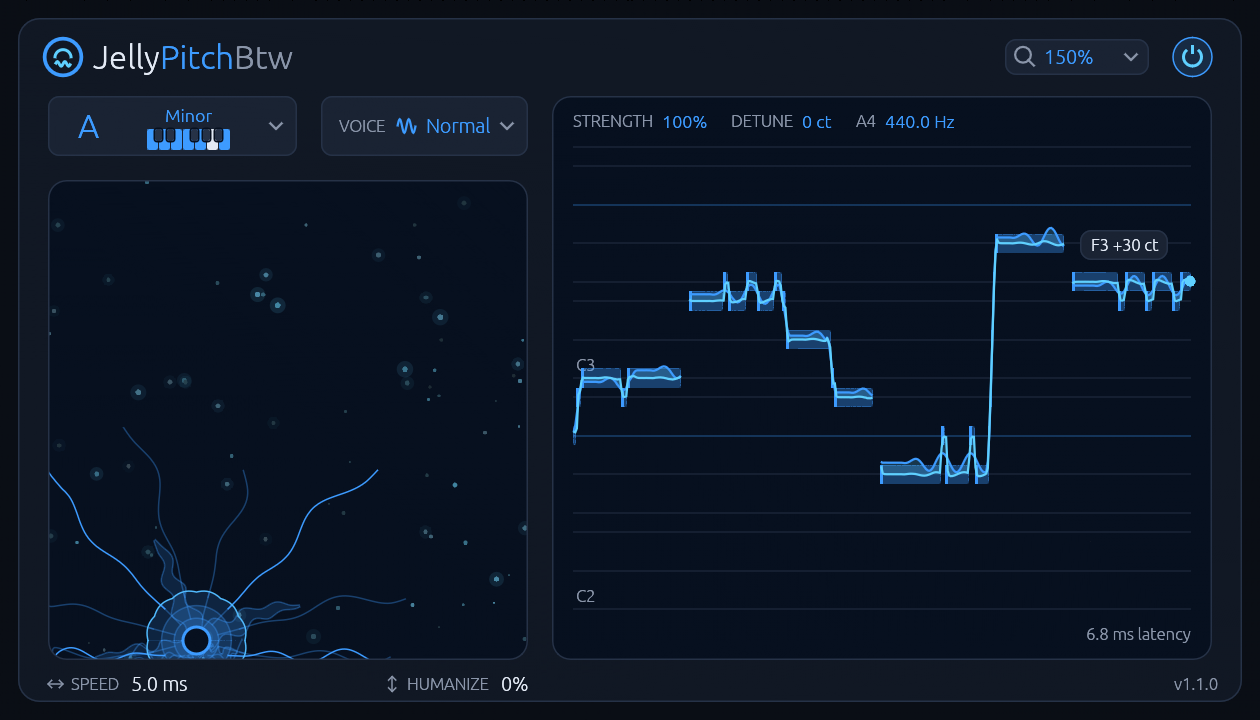
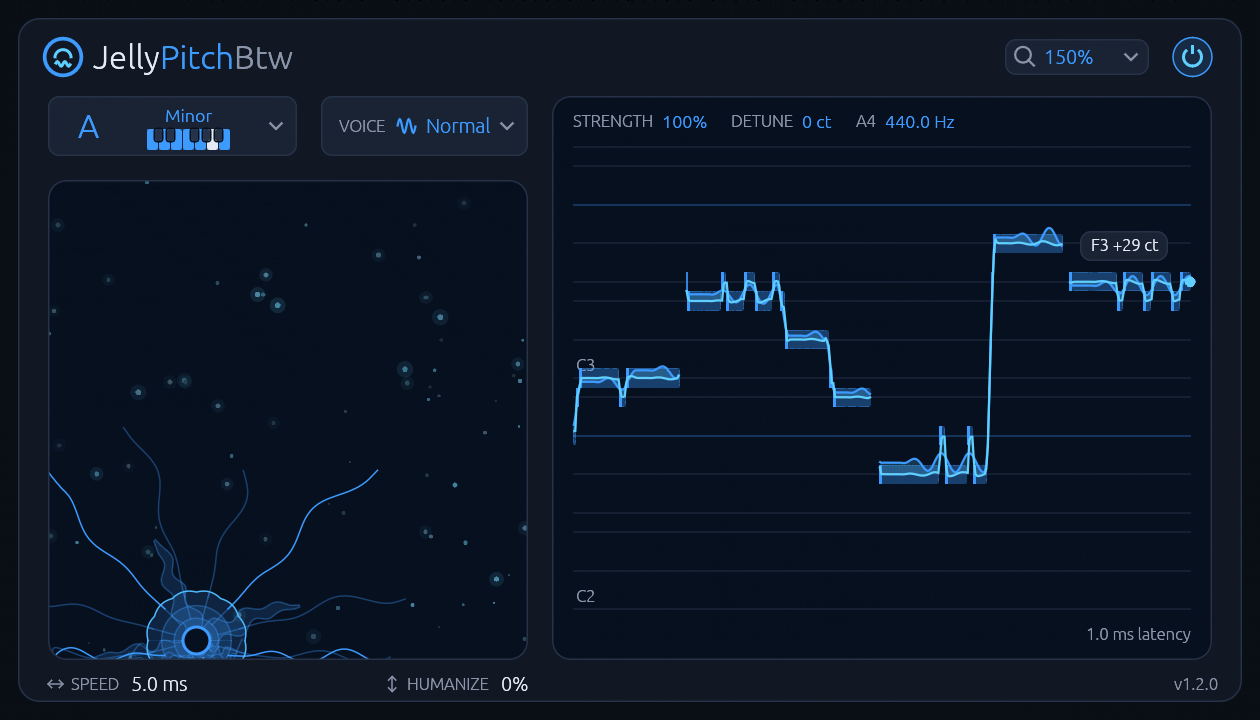
1.2.0: 1 ms of latency, lighter, AVX2, a new screenshot
README: the latency, the CPU, the AVX2 requirement and the install commands. Manual: VOICE no longer sets the latency, 1.1's settings are kept, an entry for a CPU without AVX2. The screenshot is the 1.2.0 editor.

diff --git a/manual.md b/manual.md
@@ -4,7 +4,7 @@
 pulled in and how far off its note a voice may be and be left alone, and a display shows the voice
 as sung and as corrected.
 
-Version 1.1.0. To install it, see the [README](README.md).
+Version 1.2.0. To install it, see the [README](README.md).
 
 ## Contents
 
@@ -35,7 +35,7 @@ From the top left of the window.
 | --- | --- | --- | --- |
 | **Power switch** (top right) | On / Off | On | Off, the voice passes through uncorrected, as late as the latency the plugin reports, so the track stays in time. |
 | **Key and scale** | C to B; 13 scales | C, Chromatic | The notes a voice is pulled to. Chromatic is every note: plain tuning. |
-| **VOICE** (beside the scale) | Low, Normal, High | Normal | Where the voice is looked for: Low 50 to 400 Hz, Normal 80 to 800 Hz, High 150 to 1500 Hz. It sets the latency too. |
+| **VOICE** (beside the scale) | Low, Normal, High | Normal | Where the voice is looked for: Low 50 to 400 Hz, Normal 80 to 800 Hz, High 150 to 1500 Hz. |
 | **The pad: SPEED** (left to right) | 0 to 200 ms | 25 ms | How fast a new note is pulled in. 0 ms snaps at once; 200 ms glides. |
 | **The pad: HUMANIZE** (bottom to top) | 0 to 100 % | 0 % | How far off its note a voice may be and be left alone, up to 50 cents at 100 %. 0 % corrects every note. |
 | **STRENGTH** (display) | 0 to 100 % | 100 % | How much of the correction is applied. 0 % leaves the pitch as sung. |
@@ -73,10 +73,8 @@ swings to the next note and back, the sound of a hard-tuned vocal. Settings to s
 
 VOICE, beside the key and scale, says where to look for the voice. Click it for its list: Low,
 Normal and High, each with its range in Hz. Normal fits most singers; take Low for a bass voice
-that the plugin misses, and High for a high soprano or a whistle. A higher range has less latency:
-10.75 ms at Low, 6.81 ms at Normal, 3.75 ms at High (at 48 kHz). The host is told and plays the
-track that much earlier, so it stays in time with the others. Because it changes the latency,
-VOICE isn't automatable: set it and leave it.
+that the plugin misses, and High for a high soprano or a whistle. The latency is the same in all
+three. VOICE isn't automatable: set it and leave it.
 
 ### The display
 
@@ -102,14 +100,14 @@ from 50 cents. Switched off, it rests.
 
 ## Good to know
 
-- **Latency:** 3.75 to 10.75 ms by VOICE, 6.81 ms at Normal. The host is told, and lines the
-  track up.
-- **Automation:** every parameter but VOICE can be automated; VOICE changes the latency, so it
-  isn't offered.
+- **Latency:** 1 ms in every VOICE. The host is told, and lines the track up. While a voice is
+  being tuned the sound runs a little further behind, 4.5 ms on average.
+- **Automation:** every parameter but VOICE can be automated.
+- **From 1.1:** every setting is kept. The latency was 3.75 to 10.75 ms by VOICE.
 - **From 1.0:** a project saved with 1.0 opens with its key, scale, SPEED, STRENGTH, DETUNE, A4
   and VOICE. REALTIME, VIBRATO, FORMANT and HOLD are gone, and HUMANIZE starts at 0 %.
 - **Saved with the project:** every setting and the zoom.
-- **CPU:** 0.26 % of a core at the defaults.
+- **CPU:** 0.13 % of a core at the defaults. It needs a CPU with AVX2 (Intel Core from 2013, AMD from 2015).
 - **One voice:** chords, a choir on one track or a mix go wrong. Correct each voice on its own
   track.
 - **Zoom:** the project remembers it, and a new window opens at the zoom you last chose in any
@@ -125,5 +123,7 @@ from 50 cents. Switched off, it rests.
   the nearest note whatever the key.
 - **The track sounds late against the others:** the host has to compensate the plugin's latency;
   check that its latency compensation is on.
+- **The plugin doesn't load:** it needs a CPU with AVX2 (Intel Core from 2013, AMD from 2015) and
+  can't run on an older one; `grep -c avx2 /proc/cpuinfo` prints 0 there. 1.1.0 runs without it.
 - **The window stays black:** the editor needs a Vulkan driver (`vulkaninfo` should list your
   GPU).

diff --git a/README.md b/README.md
@@ -19,11 +19,11 @@ a harmoniser and not a vocoder: it corrects one voice at a time.
 - **13 scales in every key:** Chromatic, Major, Natural, Harmonic and Melodic Minor, Dorian, Phrygian, Lydian, Mixolydian, Locrian, Major and Minor Pentatonic and Blues.
 - **One puck for the feel:** SPEED from 0 to 200 ms along the pad, HUMANIZE from 0 to 100 % (up to 50 cents) up it. 0 ms snaps at once.
 - **The note follows the pitch:** a wide vibrato swings to its neighbour and back, for the hard-tuned sound.
-- **One small latency:** 3.75 to 10.75 ms by voice range (6.81 ms at Normal), reported to the host so the track stays in time.
+- **1 ms of latency** in every voice range, reported to the host so the track stays in time. While a voice is being tuned the sound runs a little further behind, 4.5 ms on average.
 - **The voice range beside the scale:** Low, Normal or High, each with its range in Hz.
 - **A display that shows what it does:** the last four seconds, the voice as sung and as corrected, with STRENGTH, DETUNE and A4 set right in it.
 - **A jellyfish that listens:** its bell pulses with your level and its tentacles stir the further you are off the note, calm within 5 cents.
-- **Light:** 0.26 % of a CPU core at the defaults.
+- **Light:** 0.13 % of a CPU core at the defaults.
 - **Zoom** from 100 to 200 %.
 - **No network access and no telemetry.**
 
@@ -33,10 +33,10 @@ Download the latest version from the [Releases page](https://github.com/jelly-co
 or with these commands:
 
 ```bash
-curl -LO https://github.com/jelly-comet/JellyPitchBtw-release/releases/download/v1.1.0/JellyPitchBtw-1.1.0-linux-x86_64.tar.gz
-curl -LO https://github.com/jelly-comet/JellyPitchBtw-release/releases/download/v1.1.0/JellyPitchBtw-1.1.0-linux-x86_64.tar.gz.sha256
-sha256sum -c JellyPitchBtw-1.1.0-linux-x86_64.tar.gz.sha256 && tar xzf JellyPitchBtw-1.1.0-linux-x86_64.tar.gz
-cd JellyPitchBtw-1.1.0-linux-x86_64
+curl -LO https://github.com/jelly-comet/JellyPitchBtw-release/releases/download/v1.2.0/JellyPitchBtw-1.2.0-linux-x86_64.tar.gz
+curl -LO https://github.com/jelly-comet/JellyPitchBtw-release/releases/download/v1.2.0/JellyPitchBtw-1.2.0-linux-x86_64.tar.gz.sha256
+sha256sum -c JellyPitchBtw-1.2.0-linux-x86_64.tar.gz.sha256 && tar xzf JellyPitchBtw-1.2.0-linux-x86_64.tar.gz
+cd JellyPitchBtw-1.2.0-linux-x86_64
 ```
 
 Install for your user:
@@ -64,7 +64,7 @@ rm -f ~/.clap/JellyPitchBtw.clap
 
 ## Requirements
 
-- Linux x86-64 with glibc 2.31 or newer (Ubuntu 20.04, Debian 11, Fedora 32 and newer)
+- Linux x86-64 on a CPU with AVX2 (Intel Core from 2013, AMD from 2015), with glibc 2.31 or newer (Ubuntu 20.04, Debian 11, Fedora 32 and newer)
 - A CLAP host
 - X11 or XWayland, and a Vulkan driver for the editor
 
